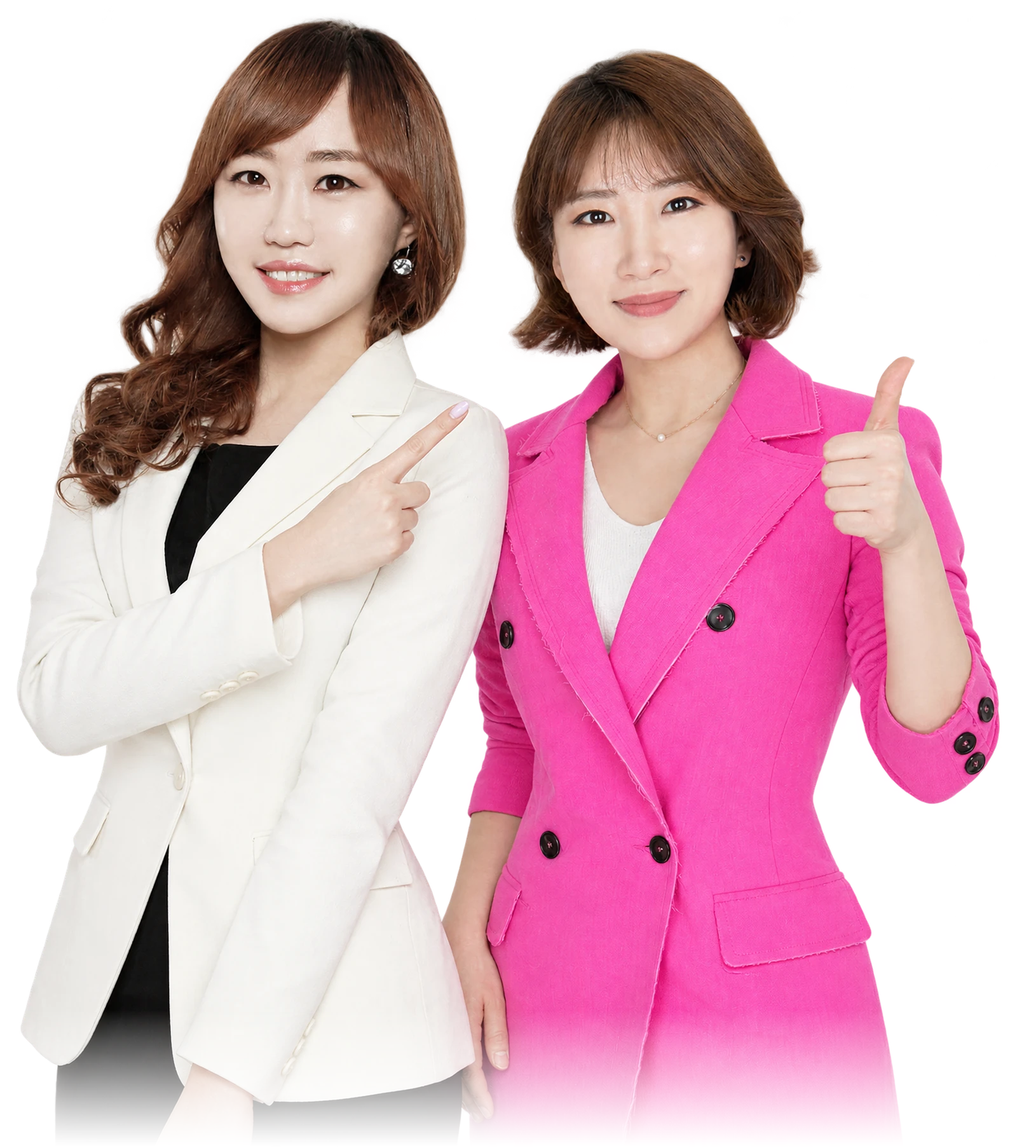
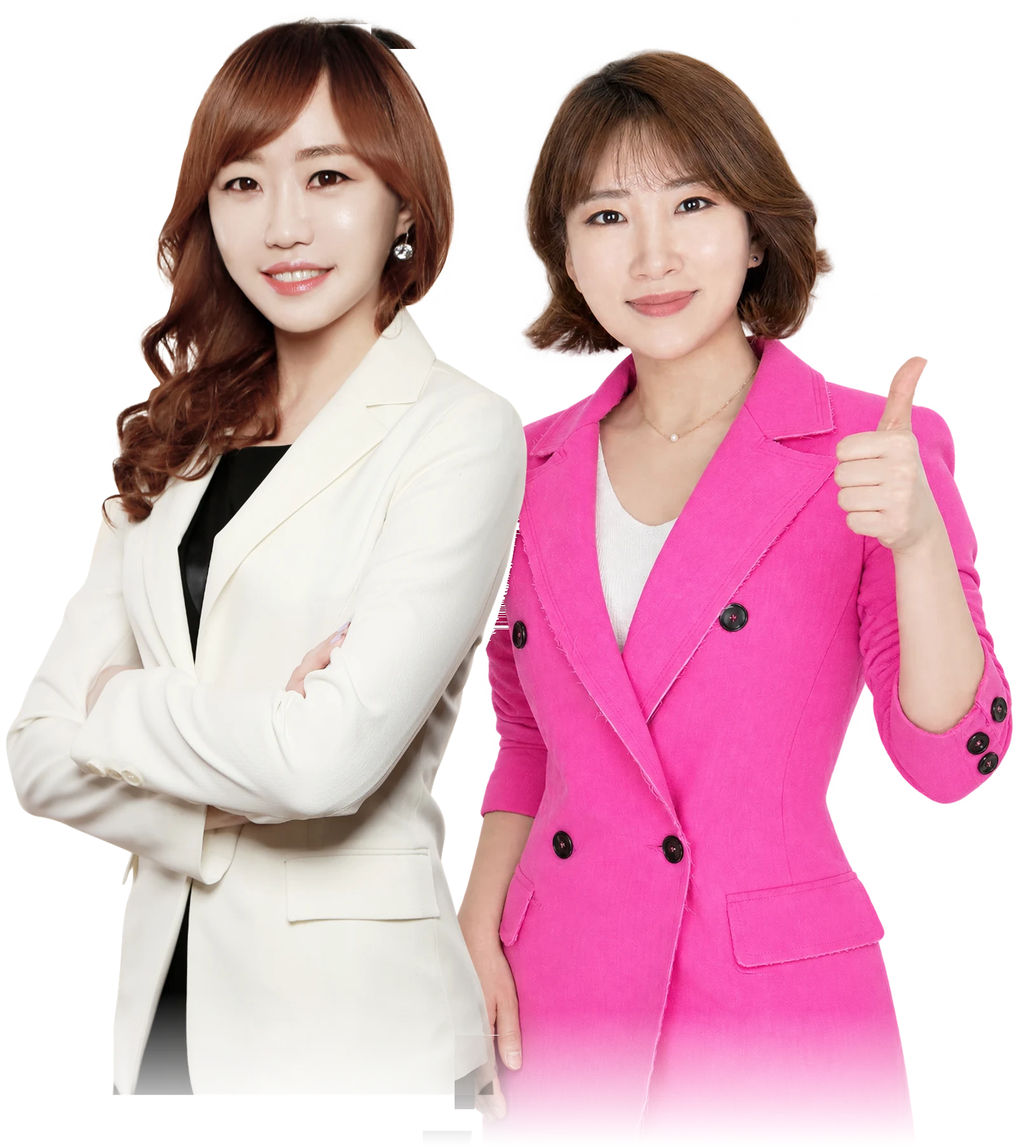
히어로 왼쪽은 실제 이혜영 사진으로, 그 밖의 강사 그림은 전부 캐리커처로 (Alan 2026-09-30)
- 히어로 투샷: 왼쪽 이혜영을 AI 컷 대신 강사프로필 `이혜영.png` 실사로 바꿔 sharp 로 다시 합쳤다 (1620×1806).
  오른쪽 이영수 엄지척 컷은 그대로.
- 강사 소개 카드 · 시간표 옆 · CTA 배너 · /student · /study 의 강사 그림을 캐리커처로 통일.
  포스터용 두 장(point · thumbsup)에 새 자세 두 장(notebook · tablet, 힉스필드 GPT Image 2.5)을 더해
  `public/instructors/caricature/` 에 모으고 `site.instructors[].caricatures` 한곳으로 등록 — 포스터는 [0] 을 읽는다.
- 실사 캐주얼 컷(`public/instructors/casual/`)과 `casual` 필드 삭제, `InstructorCameo` 의 fade 제거.
- next.config 포스터 파일 추적 경로 · CLAUDE.md 갱신.

diff --git a/src/lib/site.ts b/src/lib/site.ts
@@ -70,9 +70,11 @@ export const site = {
     { src: "/reviews/3.webp", w: 898, h: 1612, kind: "ybm", badge: "600+기초 한달 점수보장반", title: "역전토익 강사님들은 토익 요령을 귀에 다이렉트로 꼽아주십니다", meta: "yebbi77**** · 2025-05-23" },
     { src: "/reviews/4.webp", w: 900, h: 1607, kind: "ybm", badge: "700+중급 두달완성", title: "역전토익은 빛이다", meta: "tnwl99**** · 2025-05-23" },
   ],
-  // 강사 사진: 배경 투명 PNG. 두 장 모두 머리 크기(380px)·구도가 같고 얼굴이 가로 중앙이라 나란히 둬도 맞는다
-  // casual: 원본 얼굴을 유지한 채 힉스필드(Nano Banana Pro)로 의상·자세만 바꾸고 배경을 지운 컷. 무릎 위까지라
-  //         설명 구간 곳곳에 <InstructorCameo /> 로 등장시킨다. 손짓 방향은 모두 화면 왼쪽 → 콘텐츠 오른쪽에 둔다
+  // photo: 실사 사진(배경 투명 PNG). 두 장 모두 머리 크기(380px)·구도가 같고 얼굴이 가로 중앙이라 나란히 둬도 맞는다.
+  //        지금은 랜딩 히어로 투샷의 재료와 JSON-LD Person.image 에만 쓴다 — 화면의 다른 강사 그림은 전부 캐리커처다
+  // caricatures: 힉스필드 GPT Image 2.5 큰 머리 스티커 스타일 온몸 그림 (2026-09-30 Alan "다른 페이지에 쌤들 나와있는거는 전부 다 캐리커처로").
+  //        <InstructorCameo name pose /> 와 랜딩 강사 소개 카드가 pose 로 고른다. 손짓은 화면 왼쪽을 향하므로 콘텐츠 오른쪽에 둔다.
+  //        **첫 장은 출석 QR 포스터가 쓴다** (attendance-poster-assets.ts 가 [0] 을 읽는다) — 순서를 바꾸면 인쇄물이 달라진다
   /**
    * 강사 소개 (2026-09-17 Alan 제공 — 소개 슬라이드 2장을 옮겨 적었다).
    * `tagline`·`education`·`years`·`highlights`·`awards` 가 랜딩 강사 소개의 설명 블록이 된다.
@@ -102,12 +104,12 @@ export const site = {
       ],
       awards: ["P어학원 최우수 강사 선정", "P어학원 수강생이 직접 뽑은 토익부문 최우수 강사 선정", "지인추천 압도적인 강사추천도"],
       photo: { src: "/instructors/lee-hyeyoung.png", width: 827, height: 1500 },
-      casual: [
-        { pose: "point", src: "/instructors/casual/lee-hyeyoung-point.png", width: 655, height: 1400 },
-        { pose: "notebook", src: "/instructors/casual/lee-hyeyoung-notebook.png", width: 623, height: 1400 },
+      caricatures: [
+        // point: 윙크하며 왼쪽을 가리킨다 — 출석 QR 포스터(QR 을 가리킴)와 랜딩 시간표 옆
+        { pose: "point", src: "/instructors/caricature/lee-hyeyoung-point.webp", width: 900, height: 1680 },
+        // notebook: 노트 + 펜, 목에 헤드폰(LC) — 강사 소개 카드와 스터디 페이지
+        { pose: "notebook", src: "/instructors/caricature/lee-hyeyoung-notebook.webp", width: 696, height: 1700 },
       ],
-      // 출석 QR 포스터의 캐리커처 (2026-09-30 Alan "QR 포스터는 케릭커쳐로") — 윙크하며 왼쪽(QR)을 가리킨다. 힉스필드 GPT Image 2.5
-      caricature: { src: "/posters/caricature-lee-hyeyoung.webp", width: 900, height: 1680 },
     },
     {
       name: "이영수",
@@ -130,12 +132,12 @@ export const site = {
       ],
       awards: ["P어학원 최우수 강사 선정", "지인추천 압도적인 강사추천도"],
       photo: { src: "/instructors/lee-yeongsu.png", width: 1233, height: 1500 },
-      casual: [
-        { pose: "thumbsup", src: "/instructors/casual/lee-yeongsu-thumbsup.png", width: 681, height: 1400 },
-        { pose: "tablet", src: "/instructors/casual/lee-yeongsu-tablet.png", width: 888, height: 1400 },
+      caricatures: [
+        // thumbsup: 엄지척 + 휴대폰 — 출석 QR 포스터(QR 을 찍음)와 랜딩 CTA 배너
+        { pose: "thumbsup", src: "/instructors/caricature/lee-yeongsu-thumbsup.webp", width: 900, height: 1968 },
+        // tablet: 태블릿 화면을 가리키며 설명 — 강사 소개 카드와 수강생전용 소개 페이지
+        { pose: "tablet", src: "/instructors/caricature/lee-yeongsu-tablet.webp", width: 647, height: 1700 },
       ],
-      // 출석 QR 포스터의 캐리커처 — 엄지척 + 휴대폰(QR 을 찍는다). 힉스필드 GPT Image 2.5
-      caricature: { src: "/posters/caricature-lee-yeongsu.webp", width: 900, height: 1968 },
     },
   ],
   /**

diff --git a/src/components/landing/Instructors.tsx b/src/components/landing/Instructors.tsx
@@ -6,8 +6,8 @@ import { site } from "@/lib/site";
 import { cn } from "@/lib/utils";
 
 /**
- * 강사별 카드 색. 흰 재킷(이혜영)은 핫핑크 위에서, 핫핑크 재킷(이영수)은 잉크 위에서 살아난다.
- * 사진이 바뀌면 여기 색 조합도 함께 확인할 것.
+ * 강사별 카드 색. 흰 정장(이혜영)은 핫핑크 위에서, 핫핑크 정장(이영수)은 잉크 위에서 살아난다.
+ * 그림(캐리커처 의상)이 바뀌면 여기 색 조합도 함께 확인할 것.
  */
 const TONE = {
   LC: {
@@ -31,6 +31,12 @@ const TONE = {
 } as const;
 
 type Instructor = (typeof site.instructors)[number];
+
+/**
+ * 카드에 세우는 캐리커처 (2026-09-30 Alan — 히어로 밖의 강사 그림은 전부 캐리커처).
+ * 포스터·시간표·CTA 에 쓰는 첫 장(point · thumbsup)과 겹치지 않게 둘째 자세를 고른다 — 같은 랜딩에 같은 그림이 두 번 나오지 않게
+ */
+const CARD_POSE = { LC: "notebook", RC: "tablet" } as const;
 
 /** 한 줄 캐치프레이즈에서 강조어를 찾아 형광펜(`.mark-sweep`)을 씌운다. 못 찾으면 그대로 */
 function Tagline({ text, mark }: { text: string; mark: string }) {
@@ -129,6 +135,7 @@ export function Instructors() {
           {site.instructors.map((t, i) => {
             const tone = TONE[t.part];
             const flip = i % 2 === 1;
+            const art = t.caricatures.find((c) => c.pose === CARD_POSE[t.part]) ?? t.caricatures[0];
             return (
               <div
                 key={t.name}
@@ -158,11 +165,11 @@ export function Instructors() {
                       className="absolute left-1/2 top-[4%] aspect-square w-[74%] -translate-x-1/2 rounded-full border border-white/20 transition-transform duration-700 ease-out group-hover:scale-105"
                     />
 
-                    {/* 사진: 카드 바닥에 세우고, 두 사진의 머리 크기가 같도록 높이를 맞춘다 */}
-                    <div className="absolute inset-x-0 bottom-0 top-[7%] origin-bottom transition-transform duration-700 ease-out group-hover:scale-[1.04]">
+                    {/* 캐리커처: 카드 바닥에 세운다. 온몸 그림이라 발 쪽은 카드 아래로 조금 내보내 이름표 뒤에 숨긴다 — 머리가 커야 캐리커처답다 */}
+                    <div className="absolute inset-x-0 -bottom-[8%] top-[5%] origin-bottom transition-transform duration-700 ease-out group-hover:scale-[1.04]">
                       <Image
-                        src={t.photo.src}
-                        alt={`${t.part} 담당 ${t.name} 강사`}
+                        src={art.src}
+                        alt={`${t.part} 담당 ${t.name} 강사 캐리커처`}
                         fill
                         sizes="(max-width: 768px) 90vw, 450px"
                         className="object-contain object-bottom drop-shadow-[0_18px_30px_rgba(23,18,31,0.25)]"

diff --git a/src/components/ui/InstructorCameo.tsx b/src/components/ui/InstructorCameo.tsx
@@ -3,42 +3,37 @@ import { site } from "@/lib/site";
 import { cn } from "@/lib/utils";
 
 type Instructor = (typeof site.instructors)[number];
-type Pose = Instructor["casual"][number]["pose"];
+type Pose = Instructor["caricatures"][number]["pose"];
 
 /**
- * 설명 구간에 잠깐 등장하는 캐주얼 복장 강사 컷 (site.instructors[].casual).
+ * 설명 구간에 잠깐 등장하는 강사 캐리커처 (site.instructors[].caricatures).
+ * 2026-09-30 Alan — 히어로 투샷 말고 강사가 나오는 자리는 전부 캐리커처다 (그전에는 실사 캐주얼 컷).
  * 높이는 className 으로 못박는다 (예: "h-40 lg:h-72") — 너비는 비율대로 따라온다.
- * 무릎 위까지만 있는 사진이라 기본으로 아래쪽을 흐린다. 박스 가장자리에 걸쳐 잘리는 자리면 fade={false}.
+ * 온몸 그림이라 아래를 흐릴 필요가 없다 (무릎 위까지만 있던 실사 컷의 fade 는 뺐다).
  */
 export function InstructorCameo({
   name,
   pose,
   className,
   sizes = "(min-width: 1024px) 240px, 140px",
-  fade = true,
 }: {
   name: Instructor["name"];
   pose: Pose;
   className?: string;
   sizes?: string;
-  fade?: boolean;
 }) {
   const instructor = site.instructors.find((t) => t.name === name);
-  const photo = instructor?.casual.find((c) => c.pose === pose);
-  if (!instructor || !photo) return null;
+  const art = instructor?.caricatures.find((c) => c.pose === pose);
+  if (!instructor || !art) return null;
 
   return (
     <Image
-      src={photo.src}
-      width={photo.width}
-      height={photo.height}
+      src={art.src}
+      width={art.width}
+      height={art.height}
       sizes={sizes}
-      alt={`${instructor.part} 담당 ${instructor.name} 강사`}
-      className={cn(
-        "pointer-events-none w-auto max-w-none select-none",
-        fade && "[mask-image:linear-gradient(to_bottom,#000_70%,transparent)]",
-        className,
-      )}
+      alt={`${instructor.part} 담당 ${instructor.name} 강사 캐리커처`}
+      className={cn("pointer-events-none w-auto max-w-none select-none", className)}
     />
   );
 }

diff --git a/src/components/landing/Hero.tsx b/src/components/landing/Hero.tsx
@@ -97,15 +97,16 @@ export function Hero() {
           </ul>
         </div>
 
-        {/* 두 강사 투샷 (2026-09-17 Alan — 일러스트 소녀 대신 "우리 강사님 두 분이 같이 있는 이미지").
-            힉스필드 GPT Image 2.5 로 원본 사진 두 장을 참조해 한 장으로 합친 투명 배경 컷 — CLAUDE.md "히어로 강사 투샷" */}
+        {/* 두 강사 투샷. 왼쪽 이혜영은 **실제 사진 그대로**(2026-09-30 Alan — "왼쪽에 혜영쌤 이 사진으로 교체"),
+            오른쪽 이영수는 2026-09-17 힉스필드 투샷의 엄지척 컷을 그대로 두고 sharp 로 다시 합쳤다 — CLAUDE.md "히어로 강사 투샷".
+            여기만 실사이고 다른 강사 그림은 전부 캐리커처다 */}
         <div className="relative mx-auto w-full max-w-md md:max-w-lg">
           <div aria-hidden className="absolute left-1/2 top-1/2 -z-10 h-64 w-64 -translate-x-1/2 -translate-y-1/2 rounded-full bg-brand-300/40 animate-pulse-ring" />
           <div aria-hidden className="absolute left-1/2 top-1/2 -z-10 h-64 w-64 -translate-x-1/2 -translate-y-1/2 rounded-full bg-brand-300/30 animate-pulse-ring" style={{ animationDelay: "1.2s" }} />
           <Image
             src="/illustrations/hero-instructors.webp"
             alt="역전토익 대표 강사 이혜영(LC)과 이영수(RC)"
-            width={1600}
+            width={1620}
             height={1806}
             priority
             sizes="(max-width: 768px) 90vw, 40vw"

diff --git a/src/lib/attendance-poster-pdf.ts b/src/lib/attendance-poster-pdf.ts
@@ -2,7 +2,7 @@
  * 출석 QR 포스터 PDF (2026-09-22 Alan — "새로 만들기 버튼을 누르면 인쇄까지 할 수 있도록 다운로드가 있으면 좋겠어").
  *
  * - **A4 가로 한 장 = A5 세로 포스터 두 장.** 가운데 점선을 자르면 강의실마다 한 장씩 붙인다. 두 장은 QR 이 같고
- *   강사만 다르다 — **캐리커처**(`site.instructors[].caricature`, 2026-09-30 Alan "QR 포스터는 케릭커쳐로" · "케릭커쳐 위주로"):
+ *   강사만 다르다 — **캐리커처**(`site.instructors[].caricatures[0]`, 2026-09-30 Alan "QR 포스터는 케릭커쳐로" · "케릭커쳐 위주로"):
  *   이혜영 윙크하며 QR 가리키기 · 이영수 엄지척 + 휴대폰. 온몸 그림(폭 53mm)이고 발밑에 이름표(`LC · 이혜영`)를 받침처럼 둔다.
  * - **전부 벡터로 그린다** — QR 칸은 순검정 네모라 어떤 프린터에서도 또렷하고, 글자는 `assets/poster-fonts/` 의
  *   Pretendard(포스터 글자만 남긴 파일)를 넣는다. 그림(QR 을 찍는 휴대폰 · 출석 도장)은 힉스필드로 만든 `public/posters/` 다 —

diff --git a/src/components/landing/CTA.tsx b/src/components/landing/CTA.tsx
@@ -31,11 +31,10 @@ export function CTA() {
               </Link>
             </div>
           </div>
-          {/* 모바일은 버튼 아래 오른쪽, PC 는 배너 오른쪽. 배너 아래 가장자리에 무릎이 잘리도록 바닥에 붙인다 */}
+          {/* 모바일은 버튼 아래 오른쪽, PC 는 배너 오른쪽. 캐리커처는 스티커처럼 흰 테두리가 있어 분홍 배너 위에서도 살아난다 */}
           <InstructorCameo
             name="이영수"
             pose="thumbsup"
-            fade={false}
             sizes="(min-width: 1024px) 200px, 120px"
             className="relative -mb-8 ml-auto mt-4 block h-56 drop-shadow-[0_12px_24px_rgba(92,7,48,0.35)] sm:-mb-12 lg:absolute lg:bottom-0 lg:right-12 lg:mb-0 lg:mt-0 lg:h-[92%] xl:right-20"
           />

diff --git a/src/lib/attendance-poster-assets.ts b/src/lib/attendance-poster-assets.ts
@@ -40,7 +40,8 @@ async function load(): Promise<PosterAssets> {
     image("posters/attendance-phone.webp", 480),
     image("posters/attendance-stamp.webp", 480),
     Promise.all(
-      site.instructors.slice(0, 2).map(async (i) => ({ name: i.name, part: i.part, photo: await image(i.caricature.src.replace(/^\//, ""), 660, true) })),
+      // 포스터는 캐리커처 첫 장(이혜영 point · 이영수 thumbsup)을 쓴다 — site.ts 의 순서가 곧 인쇄물이다
+      site.instructors.slice(0, 2).map(async (i) => ({ name: i.name, part: i.part, photo: await image(i.caricatures[0].src.replace(/^\//, ""), 660, true) })),
     ),
   ]);
   return { fonts: { black, bold, semibold }, logo, symbol, phone, stamp, people };

diff --git a/src/app/(public)/study/page.tsx b/src/app/(public)/study/page.tsx
@@ -72,7 +72,7 @@ export default async function StudyPage() {
 
   return (
     <section className="container-x py-10 sm:py-14">
-      {/* 제목 오른쪽에 노트를 든 강사. 모바일은 카드 위에서 흐려지고, PC 는 아래쪽이 소개 카드 뒤로 들어간다 */}
+      {/* 제목 오른쪽에 노트를 든 강사 캐리커처. PC 는 아래쪽이 소개 카드 뒤로 들어간다 */}
       <div className="flex items-end justify-between gap-3">
         <PageHeader icon="study" title="스터디 신청하기" description="혼자보다 함께. 매달 열리는 역전토익 스터디 중 나에게 맞는 스터디를 골라 신청하세요." />
         <InstructorCameo

diff --git a/next.config.ts b/next.config.ts
@@ -47,8 +47,8 @@ const nextConfig: NextConfig = {
       "./public/brand/logo.png",
       "./public/brand/symbol.png",
       "./public/posters/attendance-*.webp",
-      // 강사 캐리커처 (2026-09-30 — 그전에는 public/instructors/casual/*.png 실사 컷)
-      "./public/posters/caricature-*.webp",
+      // 강사 캐리커처 (2026-09-30 — 그전에는 public/instructors/casual/*.png 실사 컷). 포스터는 site.instructors[].caricatures[0]
+      "./public/instructors/caricature/*.webp",
     ],
   },
 

diff --git a/CLAUDE.md b/CLAUDE.md
@@ -465,20 +465,24 @@ npx tsc --noEmit && npx eslint src && npx vitest run && npm run build
   - 움직임 셋: 메달이 한 번 튀어 오르고(`animate-pop`) · 메달 뒤 금빛 고리가 퍼지고(`animate-pulse-ring`) · 배지를 빛줄기가 3.6초마다 가로지른다(`.rank-sweep`, globals.css).
     움직임 줄이기면 빛줄기는 끈다. 빛줄기는 **시작 전에도 왼쪽 밖에 있어야** 흰 띠가 멈춰 보이지 않는다(기본 `transform`).
   - 같은 말이 **헤드라인 띠(`Spotlight` 의 `WORDS`)와 강점 카드(`Features`)** 에도 있다 — 문구를 바꾸면 세 곳을 같이 고칠 것
-- **히어로 강사 투샷** (2026-09-17 Alan — "저 여자 이미지 말고 우리 강사님 두분이 같이 있는 이미지로. 힉스필드로 얼굴은 그대로 유지한 채 자연스럽게 합쳐줘",
-  시안 3개 중 **시안 1** 선택). 랜딩 히어로 오른쪽은 일러스트 소녀(`hero-comeback.png`, 삭제)가 아니라 **두 강사 투샷 컷**
-  `public/illustrations/hero-instructors.webp`(1600×1806, 투명 배경, 아래 12% 는 배경으로 녹아드는 페이드) 다.
-  힉스필드 `gpt_image_2_5`(quality high · 2k · background transparent)에 `public/instructors/` 원본 두 장을 `image_references` 로 넣어 만들었다 —
-  프롬프트 핵심은 "얼굴·머리·의상을 참조 그대로, 흰 재킷(이혜영)은 왼쪽에서 오른쪽 위를 가리키고 분홍 재킷(이영수)은 엄지척".
-  `이번 달 목표` 카드는 **왼쪽 아래**(페이드로 녹아드는 치마 자리)에 둔다 — 두 분이 그림을 가득 채워 위쪽에 두면 머리를 가린다. 다시 만들면 얼굴을 원본과 나란히 대조할 것 (강사 캐주얼 컷과 같은 규칙).
-  **이 작업 환경은 힉스필드 결과 CDN(`d8j0ntlcm91z4.cloudfront.net`)이 막혀 있다** — 결과 파일은 Alan 이 대화에 첨부해 줘서 받았다.
-  환경 네트워크 허용 목록을 바꿔도 **이미 도는 세션에는 적용되지 않는다** (새 세션부터). 다음에도 결과물이 필요하면 첨부를 부탁하거나 새 세션에서 받는다
+- **히어로 강사 투샷** (2026-09-17 Alan — "저 여자 이미지 말고 우리 강사님 두분이 같이 있는 이미지로", 시안 3개 중 **시안 1** →
+  2026-09-30 Alan "왼쪽에 혜영쌤 이 사진으로 교체"). 랜딩 히어로 오른쪽은 **두 강사 투샷 컷** `public/illustrations/hero-instructors.webp`
+  (1620×1806, 투명 배경, 아래 12% 는 배경으로 녹아드는 페이드) 다. **왼쪽 이혜영은 실제 사진 그대로**(강사프로필 `이혜영.png`, 팔짱 컷)이고
+  **오른쪽 이영수는 2026-09-17 힉스필드 투샷(`gpt_image_2_5` · 원본 두 장 `image_references`)의 엄지척 컷**을 남긴 것이다 —
+  AI 가 그린 이혜영 얼굴이 실물과 달라 Alan 이 실사로 바꿨다. **다시 만들 때 이혜영을 AI 로 그리지 말 것** — 실사를 쓰라는 것이 요점이다.
+  sharp 로 합쳤다: 옛 투샷에서 줄마다 첫 분홍 픽셀(이영수 재킷) 왼쪽을 지워 이영수 층을 뽑고(머리 사이는 투명 틈의 가운데),
+  실사 이혜영을 머리 크기(393→445px)·얼굴 중심(x 470)에 맞춰 **앞에** 얹은 뒤 같은 구간(y 1560→1785)을 페이드했다. 이영수는 20px 오른쪽으로 밀어 어깨가 살짝 겹친다.
+  **사이트에서 실사 강사 그림은 여기뿐이다** — 나머지는 전부 캐리커처 (아래 "강사 캐리커처").
+  `이번 달 목표` 카드는 **왼쪽 아래**(페이드로 녹아드는 자리)에 둔다 — 두 분이 그림을 가득 채워 위쪽에 두면 머리를 가린다.
+  힉스필드 결과 CDN(`d8j0ntlcm91z4.cloudfront.net`)은 세션에 따라 막혀 있기도 하다 — 2026-09-17 세션은 막혀 Alan 이 첨부해 줬고, 2026-09-30 세션은 받아졌다
+  (일시 실패가 있으니 받기는 3번 재시도). 환경 네트워크 허용 목록을 바꿔도 **이미 도는 세션에는 적용되지 않는다** (새 세션부터)
 - **강사 사진은 예외로 실사**를 쓴다 (2026-09-16 Alan 제공). `public/instructors/lee-hyeyoung.png`(LC)·`lee-yeongsu.png`(RC),
   배경 투명 PNG, 두 장 모두 높이 1500px·머리 380px·얼굴이 가로 중앙이라 같은 높이로 나란히 두면 구도가 맞는다.
   경로·크기는 `site.instructors[].photo` 한곳에서 읽는다. 원본은 OneDrive `바탕 화면/역전토익/강사프로필/` (이영수는 검정·파란 의상도 있음).
-  흰 재킷(이혜영)은 핫핑크 배경, 핫핑크 재킷(이영수)은 잉크 배경에서 살아난다
+  **2026-09-30 부터 화면에서 실사가 서는 곳은 히어로 투샷뿐이다** (`photo` 는 그 재료와 JSON-LD `Person.image` 에만 쓴다) —
+  강사 소개 카드까지 캐리커처로 바꿨다. 흰 정장(이혜영)은 핫핑크 배경, 핫핑크 정장(이영수)은 잉크 배경에서 살아난다 (캐리커처 의상도 같다)
 - **강사 소개 블록** (2026-09-17 Alan 제공 — 소개 슬라이드 2장, "애니메이션 효과도 잘 들어가면서"). 랜딩 강사 소개는
-  **강사마다 한 줄 = 사진 카드 + 소개 블록**이고, 사진이 왼쪽·오른쪽으로 번갈아 선다 (lg 이상. 좁으면 카드 → 소개 세로).
+  **강사마다 한 줄 = 캐리커처 카드(2026-09-30 부터. 그전엔 실사 사진) + 소개 블록**이고, 카드가 왼쪽·오른쪽으로 번갈아 선다 (lg 이상. 좁으면 카드 → 소개 세로).
   문구는 전부 `site.instructors[]` 의 `tagline`·`taglineMark`·`education`·`years`·`highlights`·`awards` 에서 읽는다 —
   **Alan 이 준 그대로**이고 고친 것은 오타 `멤돈다`→`맴돈다` 와 원본의 `**`(각주 표시인데 각주가 없다) 삭제뿐. `P어학원` 은 원본 표기 그대로.
   블록은 위에서부터 **칩(담당·경력) → 캐치프레이즈 → 학력 → 강점 두 카드 → 수상 알약**. 스크롤로 들어오면 네 가지가 움직인다:
@@ -488,11 +492,17 @@ npx tsc --noEmit && npx eslint src && npx vitest run && npm run build
   움직임 줄이기(`prefers-reduced-motion`)면 전부 바로 보인다. 순서 간격을 `nth-child` 로 못박지 않은 것은 항목 수가 늘면 뒤가 잘리기 때문.
   글머리는 브랜드색 점, 강점 머리는 힉스필드 `lc`·`bolt`·`target` 아이콘(`highlights[].icon`), 수상은 `rank1`(월계관) — 이모지를 쓰지 않는다.
   카드 이름표의 한 줄 소개는 뺐다 (소개 블록이 맡는다). **강조어 `taglineMark` 는 `white-space: nowrap`** 이라 너무 길게 잡지 말 것 — 좁은 화면에서 넘친다.
-- **강사 캐주얼 컷** (2026-09-16 Alan 요청): 얼굴은 유지하고 의상·자세만 힉스필드(Nano Banana Pro)로 바꾼 뒤 배경을 지운 무릎 위 컷.
-  `public/instructors/casual/` — 이혜영 `point`(가리키기)·`notebook`(노트+헤드폰, 크림 니트 가디건+청바지),
-  이영수 `thumbsup`·`tablet`(데님 재킷+흰 티+블랙 와이드). `site.instructors[].casual` 에 등록하고 `<InstructorCameo name pose />` 로만 쓴다.
-  손짓이 모두 화면 왼쪽을 향하므로 콘텐츠 오른쪽에 둔다. 지금 등장 위치: 랜딩 시간표 제목 옆(lg+)·랜딩 CTA 배너·`/student`·`/study` 제목 옆.
-  AI 편집본이라 얼굴이 원본과 픽셀 단위로 같지는 않다 — 새 컷을 만들면 원본 얼굴과 나란히 대조해 가장 닮은 것만 쓴다
+- **강사 캐리커처** (2026-09-30 Alan — "다른 페이지에 쌤들 나와있는거는 전부다 케릭커쳐 디자인으로 변경". 2026-09-16 의 실사 캐주얼 컷
+  `public/instructors/casual/` 은 지웠다 — **되살리지 말 것**). 히어로 투샷을 뺀 강사 그림은 전부 힉스필드 GPT Image 2.5 **큰 머리 스티커 캐리커처**
+  (온몸, 굵은 검정 선 + 흰 테두리)다. `public/instructors/caricature/` — 이혜영 `point`(윙크하며 가리키기)·`notebook`(노트+펜, 목에 헤드폰),
+  이영수 `thumbsup`(엄지척+휴대폰)·`tablet`(태블릿 화면 가리키기). `site.instructors[].caricatures` 에 pose 로 등록하고 `<InstructorCameo name pose />` 로 쓴다.
+  **첫 장(point · thumbsup)은 출석 QR 포스터가 읽는다** (`caricatures[0]`) — 순서를 바꾸면 인쇄물이 달라진다.
+  등장 위치: 랜딩 강사 소개 카드(`Instructors.tsx` 의 `CARD_POSE` = notebook · tablet)·랜딩 시간표 제목 옆 point(lg+)·랜딩 CTA 배너 thumbsup·
+  `/student` tablet·`/study` notebook. **같은 랜딩에 같은 그림이 두 번 나오지 않게** 카드는 둘째 자세를 쓴다. 손짓이 화면 왼쪽을 향하므로 콘텐츠 오른쪽에 둔다.
+  새 자세를 만들 때: `gpt_image_2_5`(quality high · 2k · background transparent · 9:16)에 **기존 캐리커처 + 실사 사진** 두 장을 `image_references` 로 넣고
+  "첫 그림과 똑같은 캐릭터·의상·화풍, 둘째 그림의 실물을 닮게, 자세만 새로" 라고 시킨다 (2026-09-30 두 자세 모두 첫 시도에 화풍이 맞았다, 시안 2개 중 고름).
+  받은 PNG 는 알파가 거의 이진(후광 없음)이라 여백만 잘라 높이 1700 webp 로 넣는다. 온몸 그림이라 `InstructorCameo` 의 아래 흐리기(fade)는 뺐다.
+  새 컷은 기존 캐리커처와 나란히 대조해 화풍·얼굴이 맞는 것만 쓴다
 - Downloads 의 첫토익 자료(노랑/연두, 파스텔 핑크 시간표·교재 표지)는 **다른 브랜드**. 참고 금지
 
 ### 관리자 대시보드 항목
@@ -1546,7 +1556,8 @@ npx tsc --noEmit && npx eslint src && npx vitest run && npm run build
   선생님마다 한 장이고 QR 은 같다. 가운데 점선을 잘라 강의실마다 붙인다.
   **강사 그림은 캐리커처다** (2026-09-30 Alan "QR 포스터는 케릭커쳐로 진행하자" · "케릭커쳐 위주로 일단 작업!" — 그전에는 실사 캐주얼 컷).
   이혜영 윙크하며 QR 을 가리키기 · 이영수 엄지척 + 휴대폰, 온몸 그림(폭 53mm)이고 발밑에 `LC · 이혜영` 이름표를 받침처럼 둔다.
-  파일은 `site.instructors[].caricature` = `public/posters/caricature-*.webp` — 힉스필드 GPT Image 2.5 로 원본 사진(정장 · 캐주얼 컷)을 참조해 만든
+  파일은 `site.instructors[].caricatures[0]` = `public/instructors/caricature/{lee-hyeyoung-point,lee-yeongsu-thumbsup}.webp`
+  (2026-09-30 랜딩 캐리커처와 한 폴더로 옮겼다 — 같은 그림을 랜딩 시간표·CTA 도 쓴다) — 힉스필드 GPT Image 2.5 로 원본 사진(정장 · 캐주얼 컷)을 참조해 만든
   큰 머리 스타일이다. 시안 넷(보통 비율 둘 · 큰 머리 둘) 중 큰 머리 쪽을 골랐고 나머지는 힉스필드 기록에 있다.
   **폭 53mm 가 끝이다** — 키가 큰 그림(이영수)을 더 키우면 머리가 위 `강의실 출석 QR` 알약을 덮는다 (그림이 알약보다 나중에 그려진다).
   그림을 바꾸면 `next.config.ts` 의 `outputFileTracingIncludes["/admin/attendance/poster/download"]` 도 고친다.
